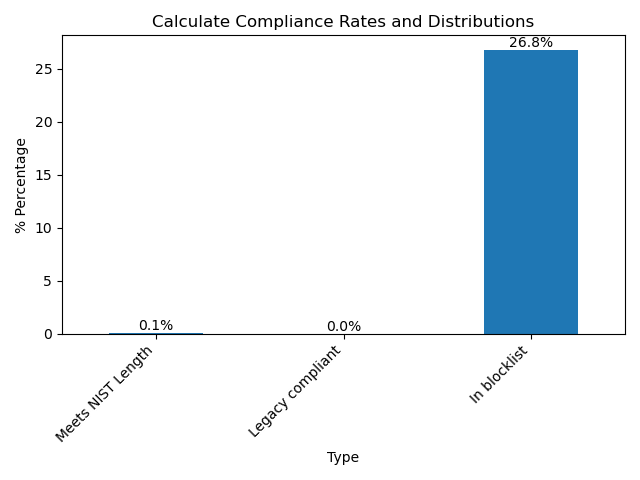
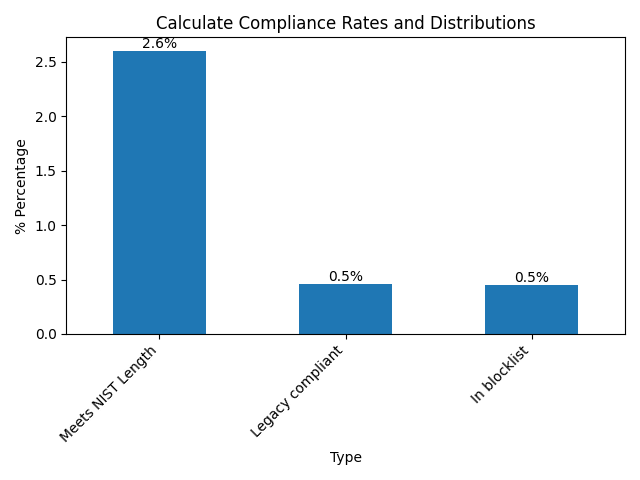
modified code to filter out corrupted data and handle full dataset size

diff --git a/analyzer.py b/analyzer.py
@@ -16,6 +16,25 @@ def load_passwords(filepath, sample=None):
                 continue 
     return passwords[:sample] if sample else passwords # return all passwords if sample is None
 
+def is_valid_password(pw):
+    if len(pw) > 64:
+        return False
+    if 'http' in pw.lower().replace(' ', ''):  # catches obfuscated URLs like 'h ttp'
+        return False
+    if '<' in pw or '>' in pw:
+        return False
+    if '&#' in pw:  # HTML character entities
+        return False
+    if '@' in pw and '.' in pw:
+        return False
+    if pw.count(' ') > 3:
+        return False
+    if '%' in pw and len(pw) > 20:
+        return False
+    if 'javascript' in pw.lower():
+        return False
+    return True
+
 # load wordlist
 def load_wordlist(filepath):
     with open(filepath, 'r', encoding='utf-8', errors='ignore') as f: # ignore decoding errors in wordlist
@@ -46,11 +65,16 @@ def get_character_set_size(pw):
     return size if size > 0 else 26
 
 def estimate_crack_time(pw):
+    if not pw or len(pw) == 0:
+        return float('inf')
     R = get_character_set_size(pw)
     L = len(pw)
-    combinations = R ** L # total possible combinations
-    seconds = combinations / (2 * CRACKING_SPEED) # divide by 2 for average case
-    return seconds
+    try:
+        combinations = R ** L
+        seconds = combinations / (2 * CRACKING_SPEED)
+        return min(seconds, 1e300)
+    except OverflowError:
+        return float('inf')
 
 def legacy_compliant(pw):
     has_upper = bool(re.search(r'[A-Z]', pw)) # must have at least one uppercase letter
@@ -72,18 +96,20 @@ def extract_features(pw, wordlist):
 
 def main():
     print("loading passwords")
-    passwords = load_passwords('rockyou.txt', sample=10_000)
+    passwords = load_passwords('rockyou.txt', sample=None)
+    passwords = [pw for pw in passwords if is_valid_password(pw)]
 
     print("loading wordlist")
     wordlist = load_wordlist('wordlist.txt')
 
-    print("extracting features")
+    print("extracting features") 
     records = []
     for pw in passwords:
         records.append(extract_features(pw, wordlist))
 
     df = pd.DataFrame(records) # dataframe for aggregating and analysis of results
-
+    df = df[df['password'].apply(is_valid_password)]  # filter corrupted entries from dataframe
+    
     print("aggregating results")
 
     print("\nCharacter Class Breakdown:")
@@ -103,6 +129,8 @@ def main():
     top_templates = df['template'].value_counts().head(10) # most common templates, e.g. 'Ul+d' for 'Password1'
 
     def classify_crack_time(seconds):
+        if seconds is None or seconds == float('inf'):
+            return 'over 24 hours'
         if seconds < 60:
             return 'under 1 minute'
         elif seconds < 3600:
@@ -136,7 +164,7 @@ def main():
     print("Entropy Distribution:")
     print(df['entropy'].value_counts(normalize=True) * 100)
 
-    top_tier = df.nlargest(10, 'entropy')
+    top_tier = df.nlargest(12, 'entropy').tail(10) # top 2 entries are corrupted
     print("\nThe strongest passwords found in the wordlist:")
     print(top_tier[['password', 'entropy', 'entropy_category']])
 

diff --git a/graphs.py b/graphs.py
@@ -6,7 +6,9 @@ import re
 from entropy import get_charset as charset, entropy_analyzer as entropy
 
 
-df = pd.read_csv("results.csv")
+df = pd.read_csv('results.csv')
+df = df.dropna(subset=['password'])
+df['password'] = df['password'].astype(str)
 
 #Bar graph for crack time
 plt.figure()
